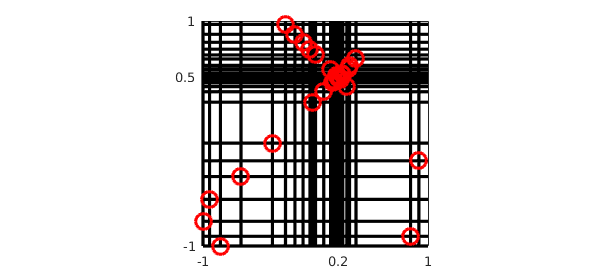
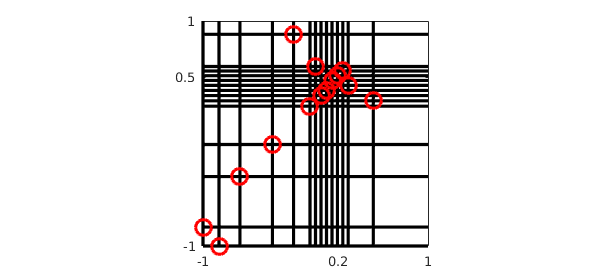
Republish approx2/Localization.
Needed to do this with the latest changes to chebfun2.

Changed region(s): [[0.3115, 0.058, 0.7164, 0.9275]]

diff --git a/examples/approx2/img/Localization.html b/examples/approx2/img/Localization.html
@@ -20,20 +20,20 @@ For example, here is a bivariate Runge function with a broad spike, which we app
 <pre class="mcode-input">ep = 1e-10;
 f = chebfun2(@(x,y) 1./(1+(x-.2).^2+(y-.5).^2),'eps',ep);
 r = rank(f), [m,n] = length(f)</pre><pre class="mcode-output">r =
-    11
+     7
 m =
-    43
+    28
 n =
-    40
+    27
 </pre>If we change $1$ to $0.001$ in the denominator, the spike becomes much more localized.  Now there is a dramatic difference between the rank and the length, showing excellent compression.
 
 <pre class="mcode-input">f = chebfun2(@(x,y) 1./(0.001+(x-.2).^2+(y-.5).^2),'eps',ep);
 r = rank(f), [m,n] = length(f)</pre><pre class="mcode-output">r =
-    28
+    14
 m =
-        1136
+   666
 n =
-        1025
+   640
 </pre>Let's make a plot.  Each red circle shows a pivot value chosen by Chebfun2's approximation to Gaussian elimination with complete pivoting, in which at each step, a rank-1 cross is subtracted corresponding to the largest function value still remaining. For a full explanation, see [1].
 
 <pre class="mcode-input">p = f.pivotValues; a = f.pivotLocations;
@@ -46,7 +46,7 @@ end
 plot(x,y,'or')
 set(gca,'xtick',[-1 0.2 1],'ytick',[-1 0.5 1])
 axis([-1 1 -1 1]), axis square, hold off</pre><pre class="mcode-output">n =
-    28
+    14
 </pre><img src="img/Localization_01.png" class="figure" alt=""/>
 
 
@@ -57,20 +57,20 @@ Here is another example.  This time, the singularity is located outside the doma
 
 <pre class="mcode-input">g = chebfun2(@(x,y) 1./((x+1.2).^2 + (y+1.2).^2),'eps',ep);
 r = rank(g), [m,n] = length(g)</pre><pre class="mcode-output">r =
-    21
+    14
 m =
-    56
+    34
 n =
-    55
+    34
 </pre>Changing 1.2 to 1.02 makes the compression striking:
 
 <pre class="mcode-input">g = chebfun2(@(x,y) 1./((x+1.02).^2 + (y+1.02).^2),'eps',ep);
 r = rank(g), [m,n] = length(g)</pre><pre class="mcode-output">r =
-    32
+    17
 m =
-   171
+   103
 n =
-   172
+   103
 </pre>Here is the analogous picture:
 
 <pre class="mcode-input">p = g.pivotValues; a = g.pivotLocations;
@@ -83,7 +83,7 @@ end
 plot(x,y,'or')
 set(gca,'xtick',[-1 0.2 1],'ytick',[-1 0.5 1])
 axis([-1 1 -1 1]), axis square, hold off</pre><pre class="mcode-output">n =
-    32
+    17
 </pre><img src="img/Localization_02.png" class="figure" alt=""/>
 
 

diff --git a/examples/approx2/Localization.html b/examples/approx2/Localization.html
@@ -70,11 +70,11 @@ f = chebfun2(@(x,y) 1./(1+(x-.2).^2+(y-.5).^2),'eps',ep);
 r = rank(f), [m,n] = length(f)</pre>
 
 <pre class="mcode-output">r =
-    11
+     7
 m =
-    43
+    28
 n =
-    40
+    27
 </pre>
 
 <p>If we change $1$ to $0.001$ in the denominator, the spike becomes much more localized.  Now there is a dramatic difference between the rank and the length, showing excellent compression.</p>
@@ -82,11 +82,11 @@ n =
 r = rank(f), [m,n] = length(f)</pre>
 
 <pre class="mcode-output">r =
-    28
+    14
 m =
-        1136
+   666
 n =
-        1025
+   640
 </pre>
 
 <p>Let's make a plot.  Each red circle shows a pivot value chosen by Chebfun2's approximation to Gaussian elimination with complete pivoting, in which at each step, a rank-1 cross is subtracted corresponding to the largest function value still remaining. For a full explanation, see [1].</p>
@@ -102,7 +102,7 @@ set(gca,'xtick',[-1 0.2 1],'ytick',[-1 0.5 1])
 axis([-1 1 -1 1]), axis square, hold off</pre>
 
 <pre class="mcode-output">n =
-    28
+    14
 </pre>
 
 <p><img src="img/Localization_01.png" class="figure" alt=""/></p>
@@ -112,11 +112,11 @@ axis([-1 1 -1 1]), axis square, hold off</pre>
 r = rank(g), [m,n] = length(g)</pre>
 
 <pre class="mcode-output">r =
-    21
+    14
 m =
-    56
+    34
 n =
-    55
+    34
 </pre>
 
 <p>Changing 1.2 to 1.02 makes the compression striking:</p>
@@ -124,11 +124,11 @@ n =
 r = rank(g), [m,n] = length(g)</pre>
 
 <pre class="mcode-output">r =
-    32
+    17
 m =
-   171
+   103
 n =
-   172
+   103
 </pre>
 
 <p>Here is the analogous picture:</p>
@@ -144,7 +144,7 @@ set(gca,'xtick',[-1 0.2 1],'ytick',[-1 0.5 1])
 axis([-1 1 -1 1]), axis square, hold off</pre>
 
 <pre class="mcode-output">n =
-    32
+    17
 </pre>
 
 <p><img src="img/Localization_02.png" class="figure" alt=""/></p>

diff --git a/index.html b/index.html
@@ -208,5 +208,5 @@ plot(minx(1),minx(2),'.w')
     <script type="text/javascript" src="/js/config.js"></script>
     <script type="text/javascript" src="/js/jquery.flexslider-min.js"></script>
   </body>
-<!-- Compiled on Wednesday, 13 April 2016 at 13:13. -->
+<!-- Compiled on Wednesday, 13 April 2016 at 15:08. -->
 </html>
